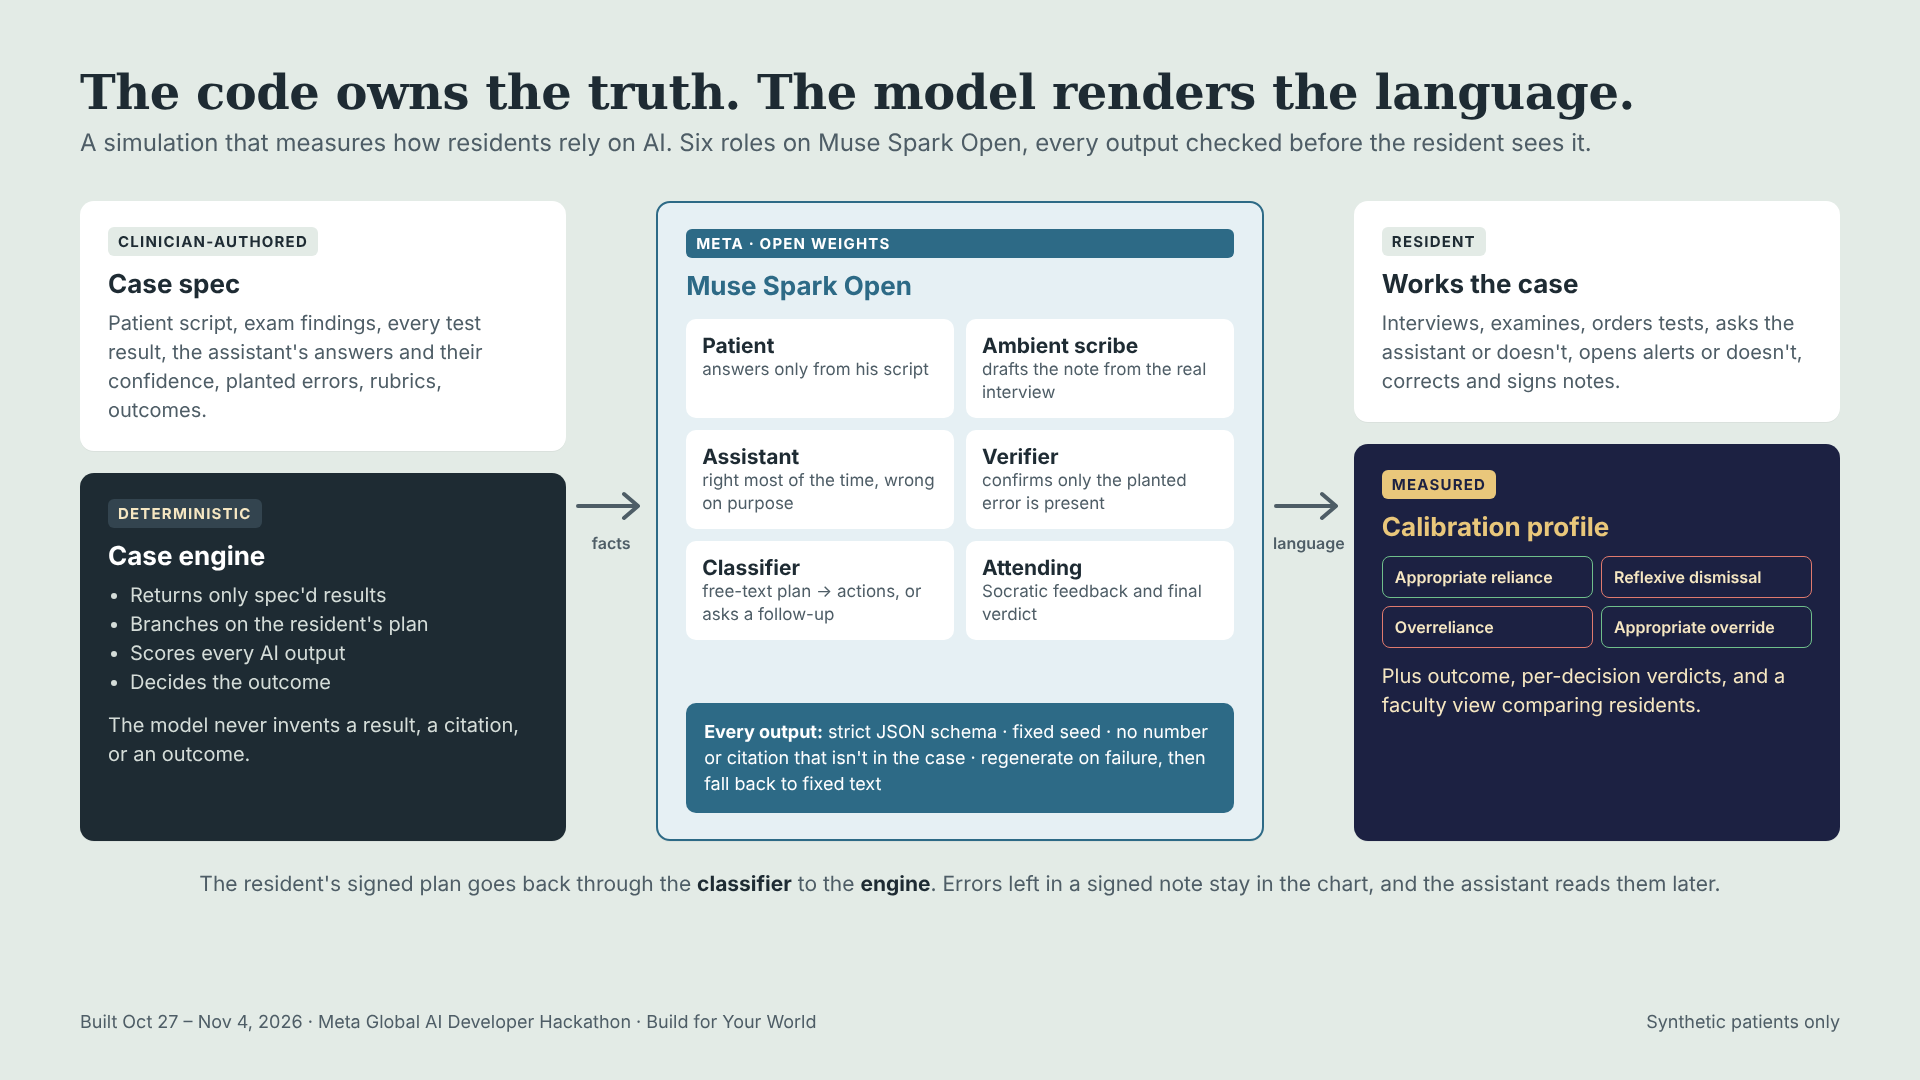
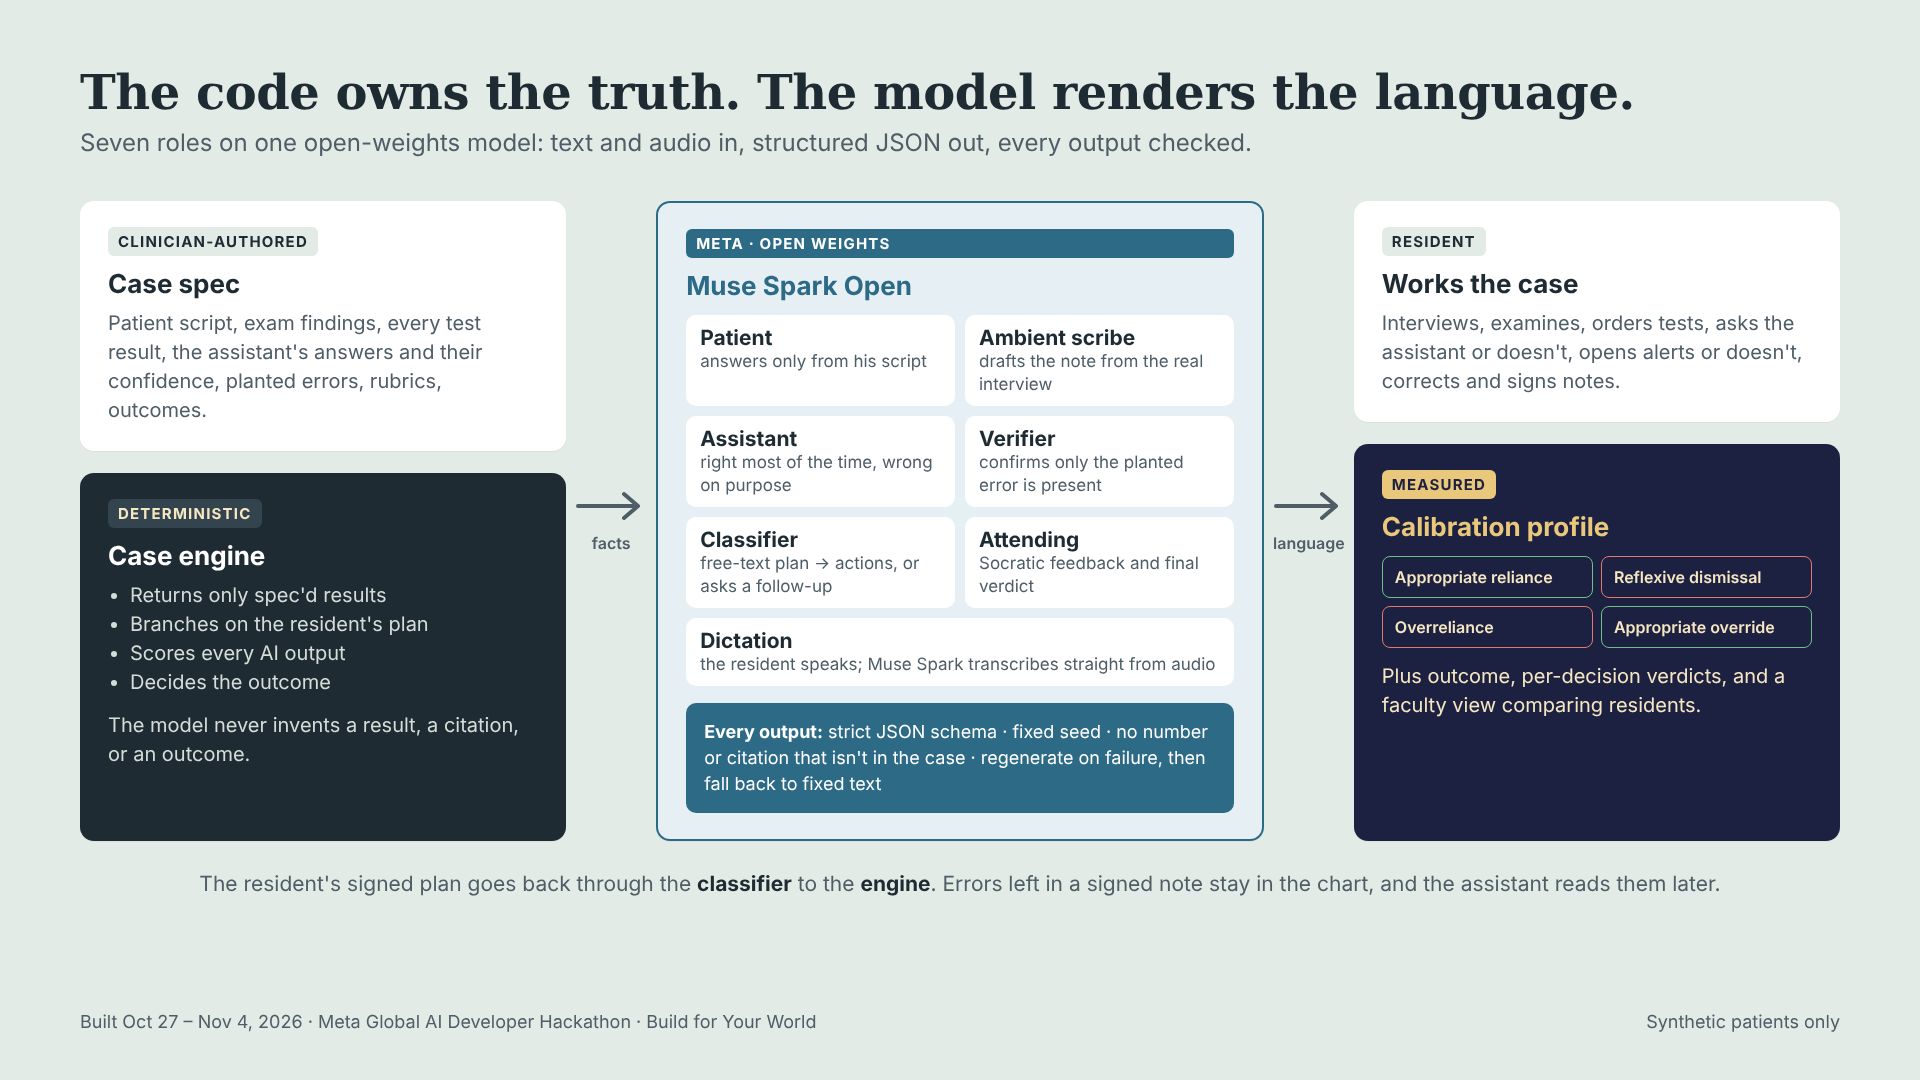
Dictation: mic on every input; Muse Spark Open transcribes the resident's speech from audio (input_audio, strict JSON); README + architecture updated
Claude-Session: https://claude.ai/code/session_01D41iGzvZ9EdG9rfJQdokvJ

Changed region(s): [[0.3438, 0.275, 0.6562, 0.6417], [0.0312, 0.1222, 0.8125, 0.1528]]

diff --git a/calibrate/web/app.js b/calibrate/web/app.js
@@ -15,7 +15,7 @@ let sid = null, S = null, noteKey = null, godOpen = null, busyN = 0;
 
 const BUSY_LABEL = [[/\/talk$/, "Patient is answering"], [/\/(assistant|alert\/[^/]+)$/, "Assistant is thinking"],
   [/\/finish_interview$/, "Ambient AI is drafting the note"], [/\/note$/, "Attending is reviewing your plan"],
-  [/\/educator$/, "Attending is thinking"], [/\/report$/, "Attending is writing up the case"]];
+  [/\/educator$/, "Attending is thinking"], [/\/report$/, "Attending is writing up the case"], [/\/api\/dictate$/, "Muse Spark is transcribing"]];
 let busyLabel = "Thinking";
 async function api(path, body, method = body === undefined ? "GET" : "POST") {
   busyLabel = (BUSY_LABEL.find(([re]) => re.test(path)) || [, "Thinking"])[1];
@@ -271,13 +271,13 @@ function openEducator() {
     : `<p class="reply">${esc(e.text)}</p>`).join("");
   if (last && last.kind === "question") {
     h += `<label for="god-reply" class="sr">Your answer</label><textarea id="god-reply" rows="3" placeholder="Answer the attending"></textarea>
-      <div class="god-row"><button class="btn primary" id="god-send">Answer</button></div>`;
+      <div class="god-row"><button class="mic" type="button" data-target="god-reply" aria-label="Dictate (Muse Spark)" title="Dictate (Muse Spark)"><svg viewBox="0 0 24 24" aria-hidden="true"><path d="M12 15a3 3 0 0 0 3-3V6a3 3 0 0 0-6 0v6a3 3 0 0 0 3 3Zm5-3a5 5 0 0 1-10 0H5a7 7 0 0 0 6 6.92V21h2v-2.08A7 7 0 0 0 19 12h-2Z"/></svg></button><button class="btn primary" id="god-send">Answer</button></div>`;
   } else {
     h += aiLine ? `<p class="ai-line">${esc(aiLine)}</p>` : "";
     h += `<div class="god-row"><button class="btn primary" id="god-ok">${S.phase === "done" ? "See how it went" : "Continue"}</button></div>`;
   }
   god(h);
-  const send = $("#god-send");
+  wireMics(); const send = $("#god-send");
   if (send) send.onclick = async () => {
     const t = $("#god-reply").value.trim(); if (!t) return;
     send.disabled = true;
@@ -355,3 +355,49 @@ async function loadSaved() {
   });
 }
 $("#faculty-home").addEventListener("click", (e) => { e.preventDefault(); location.hash = ""; location.reload(); });
+
+/* ---------- dictation (Muse Spark Open audio input) ---------- */
+// Records 16 kHz mono WAV in the browser; the server sends it to Muse Spark Open, and the transcript lands in the
+// input box for the resident to review. Nothing is submitted automatically.
+let rec = null;
+function wavB64(chunks, rate) {
+  const len = chunks.reduce((n, c) => n + c.length, 0), pcm = new Float32Array(len);
+  let o = 0; for (const c of chunks) { pcm.set(c, o); o += c.length; }
+  const ratio = rate / 16000, n = Math.floor(pcm.length / ratio), buf = new ArrayBuffer(44 + n * 2), v = new DataView(buf);
+  const w = (p, s) => [...s].forEach((ch, i) => v.setUint8(p + i, ch.charCodeAt(0)));
+  w(0, "RIFF"); v.setUint32(4, 36 + n * 2, true); w(8, "WAVEfmt "); v.setUint32(16, 16, true); v.setUint16(20, 1, true);
+  v.setUint16(22, 1, true); v.setUint32(24, 16000, true); v.setUint32(28, 32000, true); v.setUint16(32, 2, true);
+  v.setUint16(34, 16, true); w(36, "data"); v.setUint32(40, n * 2, true);
+  for (let i = 0; i < n; i++) { const x = Math.max(-1, Math.min(1, pcm[Math.floor(i * ratio)])); v.setInt16(44 + i * 2, x < 0 ? x * 0x8000 : x * 0x7fff, true); }
+  let bin = ""; const u = new Uint8Array(buf); for (let i = 0; i < u.length; i += 0x8000) bin += String.fromCharCode.apply(null, u.subarray(i, i + 0x8000));
+  return btoa(bin);
+}
+async function micToggle(btn) {
+  const target = document.getElementById(btn.dataset.target);
+  if (rec && rec.btn === btn) {             // stop -> transcribe
+    const r = rec; rec = null;
+    r.proc.disconnect(); r.src.disconnect(); r.stream.getTracks().forEach((t) => t.stop()); r.ctx.close();
+    btn.classList.remove("rec"); btn.setAttribute("aria-label", "Dictate (Muse Spark)");
+    if (!r.chunks.length) return;
+    try {
+      const d = await api("/api/dictate", { audio: wavB64(r.chunks, r.ctx.sampleRate), field: btn.dataset.target });
+      if (d.text) { target.value = (target.value.trim() ? target.value.trimEnd() + " " : "") + d.text; target.dispatchEvent(new Event("input")); target.focus(); }
+    } catch { /* api() already flashed the error */ }
+    return;
+  }
+  if (rec) return;                           // one recording at a time
+  try {
+    const stream = await navigator.mediaDevices.getUserMedia({ audio: true });
+    const ctx = new AudioContext(), src = ctx.createMediaStreamSource(stream), proc = ctx.createScriptProcessor(4096, 1, 1);
+    const chunks = []; proc.onaudioprocess = (e) => chunks.push(new Float32Array(e.inputBuffer.getChannelData(0)));
+    src.connect(proc); proc.connect(ctx.destination);
+    rec = { btn, stream, ctx, src, proc, chunks };
+    btn.classList.add("rec"); btn.setAttribute("aria-label", "Stop dictation");
+  } catch { flash("Microphone not available. Allow mic access, or type instead."); }
+}
+function wireMics() {
+  document.querySelectorAll("button.mic:not([data-wired])").forEach((b) => {
+    b.dataset.wired = "1"; b.addEventListener("click", () => micToggle(b));
+  });
+}
+wireMics();

diff --git a/calibrate/web/index.html b/calibrate/web/index.html
@@ -45,6 +45,7 @@
       <form class="say" id="say-form" autocomplete="off">
         <label for="say" class="sr">Speak to the patient or examine him</label>
         <input id="say" placeholder="Talk to him, examine him, or order a test">
+        <button class="mic" type="button" data-target="say" aria-label="Dictate (Muse Spark)" title="Dictate (Muse Spark)"><svg viewBox="0 0 24 24" aria-hidden="true"><path d="M12 15a3 3 0 0 0 3-3V6a3 3 0 0 0-6 0v6a3 3 0 0 0 3 3Zm5-3a5 5 0 0 1-10 0H5a7 7 0 0 0 6 6.92V21h2v-2.08A7 7 0 0 0 19 12h-2Z"/></svg></button>
         <button class="btn primary" type="submit">Say</button>
         <button class="btn" type="button" id="finish-interview">Finish interview and draft note</button>
       </form>
@@ -63,7 +64,7 @@
             <textarea id="note-history" rows="12"></textarea>
             <div class="note-diff" id="note-diff" hidden aria-live="polite"></div>
           </div>
-          <label for="note-ap">Assessment and plan</label>
+          <div class="ap-head"><label for="note-ap">Assessment and plan</label><button class="mic" type="button" data-target="note-ap" aria-label="Dictate (Muse Spark)" title="Dictate (Muse Spark)"><svg viewBox="0 0 24 24" aria-hidden="true"><path d="M12 15a3 3 0 0 0 3-3V6a3 3 0 0 0-6 0v6a3 3 0 0 0 3 3Zm5-3a5 5 0 0 1-10 0H5a7 7 0 0 0 6 6.92V21h2v-2.08A7 7 0 0 0 19 12h-2Z"/></svg></button></div>
           <textarea id="note-ap" rows="6"></textarea>
           <div class="clip-actions"><button class="btn primary" id="sign">Sign note</button></div>
         </div>
@@ -85,6 +86,7 @@
           <form class="ai-ask" id="ai-form" autocomplete="off">
             <label for="ai-q" class="sr">Ask the assistant</label>
             <input id="ai-q" placeholder="Ask the assistant">
+            <button class="mic" type="button" data-target="ai-q" aria-label="Dictate (Muse Spark)" title="Dictate (Muse Spark)"><svg viewBox="0 0 24 24" aria-hidden="true"><path d="M12 15a3 3 0 0 0 3-3V6a3 3 0 0 0-6 0v6a3 3 0 0 0 3 3Zm5-3a5 5 0 0 1-10 0H5a7 7 0 0 0 6 6.92V21h2v-2.08A7 7 0 0 0 19 12h-2Z"/></svg></button>
             <button class="btn small" type="submit">Ask</button>
           </form>
         </div>

diff --git a/docs/architecture.html b/docs/architecture.html
@@ -22,8 +22,8 @@
   .tag.m { background: var(--ai); color: #fff; } .tag.r { background: var(--gold); color: var(--god); }
   .muse { background: var(--aiw); border: 2px solid var(--ai); flex: 1; display: flex; flex-direction: column; }
   .muse h2 { color: var(--ai); }
-  .roles { display: grid; grid-template-columns: 1fr 1fr; gap: 12px; margin-top: 8px; }
-  .role { background: var(--paper); border-radius: 10px; padding: 14px 16px; }
+  .roles { display: grid; grid-template-columns: 1fr 1fr; gap: 10px; margin-top: 4px; }
+  .role { background: var(--paper); border-radius: 10px; padding: 10px 14px; }
   .role b { display: block; font-size: 21px; color: var(--ink); }
   .role span { font-size: 17px; color: var(--ink2); line-height: 1.35; }
   .guard { margin-top: auto; background: var(--ai); color: #fff; border-radius: 10px; padding: 16px 18px; font-size: 18px; line-height: 1.45; }
@@ -42,7 +42,7 @@
 </style></head>
 <body>
   <h1>The code owns the truth. The model renders the language.</h1>
-  <p class="sub">A simulation that measures how residents rely on AI. Six roles on Muse Spark Open, every output checked before the resident sees it.</p>
+  <p class="sub">Seven roles on one open-weights model: text and audio in, structured JSON out, every output checked.</p>
 
   <div class="row">
     <div class="col">
@@ -64,6 +64,7 @@
           <div class="role"><b>Verifier</b><span>confirms only the planted error is present</span></div>
           <div class="role"><b>Classifier</b><span>free-text plan → actions, or asks a follow-up</span></div>
           <div class="role"><b>Attending</b><span>Socratic feedback and final verdict</span></div>
+          <div class="role" style="grid-column: span 2"><b>Dictation</b><span>the resident speaks; Muse Spark transcribes straight from audio</span></div>
         </div>
         <div class="guard"><b>Every output:</b> strict JSON schema · fixed seed · no number or citation that isn't in the case · regenerate on failure, then fall back to fixed text</div>
       </div>

diff --git a/calibrate/web/style.css b/calibrate/web/style.css
@@ -228,3 +228,16 @@ label { display: block; font-weight: 600; font-size: 13.5px; margin: 14px 0 6px;
 .line.patient.typing, .ai-a.typing { width: fit-content; padding-top: 12px; padding-bottom: 12px; }
 @keyframes blink { 0%, 80%, 100% { opacity: .25; } 40% { opacity: 1; } }
 @media (prefers-reduced-motion: reduce) { .busy .dots i, .typing i { animation: none; opacity: .6; } }
+
+/* dictation */
+.mic { flex: none; width: 40px; height: 40px; border-radius: 50%; border: 1px solid #AAB7B0; background: var(--paper);
+  display: inline-flex; align-items: center; justify-content: center; cursor: pointer; padding: 0; }
+.mic svg { width: 20px; height: 20px; fill: var(--ai); }
+.mic:hover { border-color: var(--ai); }
+.mic.rec { background: var(--alert); border-color: var(--alert); animation: micpulse 1.2s infinite; }
+.mic.rec svg { fill: #fff; }
+.ap-head { display: flex; align-items: center; justify-content: space-between; }
+.god .mic { background: #262C55; border-color: #4A5190; margin-right: 8px; }
+.god .mic svg { fill: var(--gold); }
+@keyframes micpulse { 0%, 100% { box-shadow: 0 0 0 0 rgba(196,53,43,.5); } 50% { box-shadow: 0 0 0 8px rgba(196,53,43,0); } }
+@media (prefers-reduced-motion: reduce) { .mic.rec { animation: none; } }

diff --git a/calibrate/roles/dictation.py b/calibrate/roles/dictation.py
@@ -1,0 +1,21 @@
+"""Dictation: Muse Spark Open transcribes the resident's spoken input (audio in, structured text out).
+The transcript goes into the input box for the resident to review before sending; it is never submitted automatically."""
+from __future__ import annotations
+
+from ..llm import strict_object
+
+SYSTEM = """You transcribe a physician's dictation in a vascular surgery training simulation.
+Write exactly what was said, verbatim. Use standard clinical spelling and abbreviations (ABI, PVR, WIfI, GSV, CTA, PTFE, A1c, LDL, mmHg, BEST-CLI).
+Do not add, correct, complete, or summarize anything. If there is no intelligible speech, return an empty transcript."""
+
+FIELDS = {"say": "speaking to the patient or describing an exam", "ai-q": "a question to the AI assistant",
+          "note-ap": "the assessment and plan of a clinic note", "god-reply": "an answer to the attending's question"}
+
+
+def transcribe(llm, wav_b64: str, field: str) -> str:
+    msgs = [{"role": "system", "content": SYSTEM},
+            {"role": "user", "content": [
+                {"type": "text", "text": f"Context: the resident is dictating {FIELDS.get(field, 'free text')}."},
+                {"type": "input_audio", "input_audio": {"data": wav_b64, "format": "wav"}}]}]
+    out = llm.json("dictation", msgs, strict_object({"transcript": {"type": "string"}}), "dictation")
+    return out["transcript"].strip()

diff --git a/calibrate/server.py b/calibrate/server.py
@@ -50,6 +50,11 @@ class Text(BaseModel):
     text: str
 
 
+class Audio(BaseModel):
+    audio: str          # base64 WAV (16 kHz mono, built in the browser)
+    field: str = ""
+
+
 class Note(BaseModel):
     ap: str
     history: Optional[str] = None  # Optional, not str | None: pydantic evaluates this on Python 3.9 (macOS system Python)
@@ -123,6 +128,26 @@ def alert(sid: str, oid: str):
 @app.post("/api/{sid}/educator")
 def educator_reply(sid: str, body: Text):
     return _do(sid, lambda r: {k: v for k, v in r.educator_reply(body.text).items() if k != "info"})
+
+
+@app.post("/api/dictate")
+def dictate(body: Audio):
+    """Speech to text with Muse Spark Open audio input. Returns text for the resident to review."""
+    if len(body.audio) > 25_000_000:
+        raise HTTPException(413, "Recording too long. Keep dictation under a minute.")
+    from .roles import dictation
+    try:
+        return {"text": dictation.transcribe(DICTATION_LLM(), body.audio, body.field)}
+    except Exception as e:
+        raise HTTPException(502, f"Dictation failed ({type(e).__name__}). Type instead, or try again.")
+
+
+_dict_llm = None
+def DICTATION_LLM():
+    global _dict_llm
+    if _dict_llm is None:
+        _dict_llm = _llm()
+    return _dict_llm
 
 
 @app.get("/api/{sid}/report")

diff --git a/calibrate/fake.py b/calibrate/fake.py
@@ -35,6 +35,8 @@ def responder(case):
     def r(role, messages, schema):
         sys, last = messages[0]["content"], messages[-1]["content"]
         props = schema.get("properties", {})
+        if role == "dictation":
+            return {"transcript": "Do you smoke?"}
         if role == "patient":
             q = last.split("latest question:")[-1]
             exam_words = ("check", "examine", "look at", "feel", "palpate", "monofilament")

diff --git a/calibrate/config.py b/calibrate/config.py
@@ -39,6 +39,7 @@ class ModelConfig:
         "classifier": "medium",
         "note_review": "low",
         "educator": "low",
+        "dictation": "minimal",
     })
     # Model-based verification on top of deterministic string checks. Turn off to cut latency.
     verify_scribe_with_model: bool = True

diff --git a/README.md b/README.md
@@ -16,7 +16,7 @@ The skill they need is **calibrated trust**: knowing where each tool is reliable
 
 A resident works a synthetic patient through a branched vascular surgery case: a 58-year-old with diabetes, a toe ulcer, and chronic limb-threatening ischemia. The resident:
 
-1. **Interviews and examines the patient** in free text. The patient is played by a model that answers only from a scripted history.
+1. **Interviews and examines the patient** in free text, typed or dictated. The patient is played by a model that answers only from a scripted history.
 2. **Orders tests.** Results come only from the case spec. If a test isn't in the spec, the answer is "not available." If it's in the spec but not indicated, the answer says why.
 3. **Works with an ambient AI assistant**, modeled on the ambient scribes residents already use. It hears the interview, reads the chart, answers questions, and sometimes raises an alert. Opening an alert is optional, and whether the resident opens it is recorded.
 4. **Reviews and signs AI-drafted notes.** Each decision is an assessment and plan written into a note the resident signs. Uncorrected errors in a signed note stay in the chart, and the assistant reads them later.
@@ -40,7 +40,7 @@ The report also counts outputs the resident never consulted, alerts they never o
 
 ## How it uses Meta's models
 
-Every model call goes to **Muse Spark Open** (`meta-models/muse-spark-open-1026`, open weights, served through Baseten's OpenAI-compatible API). Each call returns structured output against a strict JSON schema, with a fixed seed. The model plays six roles:
+Every model call goes to **Muse Spark Open** (`meta-models/muse-spark-open-1026`, open weights, served through Baseten's OpenAI-compatible API). Each call returns structured output against a strict JSON schema, with a fixed seed. One model plays seven roles, including speech-to-text from the resident's own voice:
 
 | Role | What it does | How it's kept honest |
 |---|---|---|
@@ -49,6 +49,7 @@ Every model call goes to **Muse Spark Open** (`meta-models/muse-spark-open-1026`
 | **Assistant** | Routes each question to a case topic and renders the spec'd answer with its spec'd confidence; answers off-spec questions correctly from the record | No number or citation unless it's in the case. Regenerate on failure, then fall back to the spec text verbatim |
 | **Verifier** | Second check on scribe and assistant outputs | Runs on top of deterministic string checks |
 | **Classifier** | Maps the free-text plan to the case's action options, or returns "unclear" and the attending asks a follow-up ("What exactly is your plan?") | Never guesses. Drives branching and scoring |
+| **Dictation** | Turns the resident's speech into text in any input box (patient, assistant, note, attending), straight from audio | Audio in, strict JSON out. The transcript lands in the box for the resident to review; nothing is sent automatically |
 | **Attending** | Socratic feedback in practice mode; a per-decision verdict and calibration summary at the end | Uses only results the resident had seen. Never invents numbers, never shows internal IDs, always includes a line on how the resident used the AI |
 
 ![Architecture](docs/img/architecture.png)
@@ -94,7 +95,7 @@ Live checks:
 - **The answer key is public.** The planted errors are in this repo. Real use needs private case specs.
 - **Educational effect has not been studied.** This is a working instrument, not a validated assessment.
 - **Synthetic patients only; no PHI anywhere.** This is a training simulation. It is not a clinical tool and does not give medical advice.
-- Not yet built: dictation (Muse audio input), more cases, and a case-authoring agent.
+- Not yet built: more cases, spoken replies (text-to-speech), and a case-authoring agent.
 
 ## Author
 
